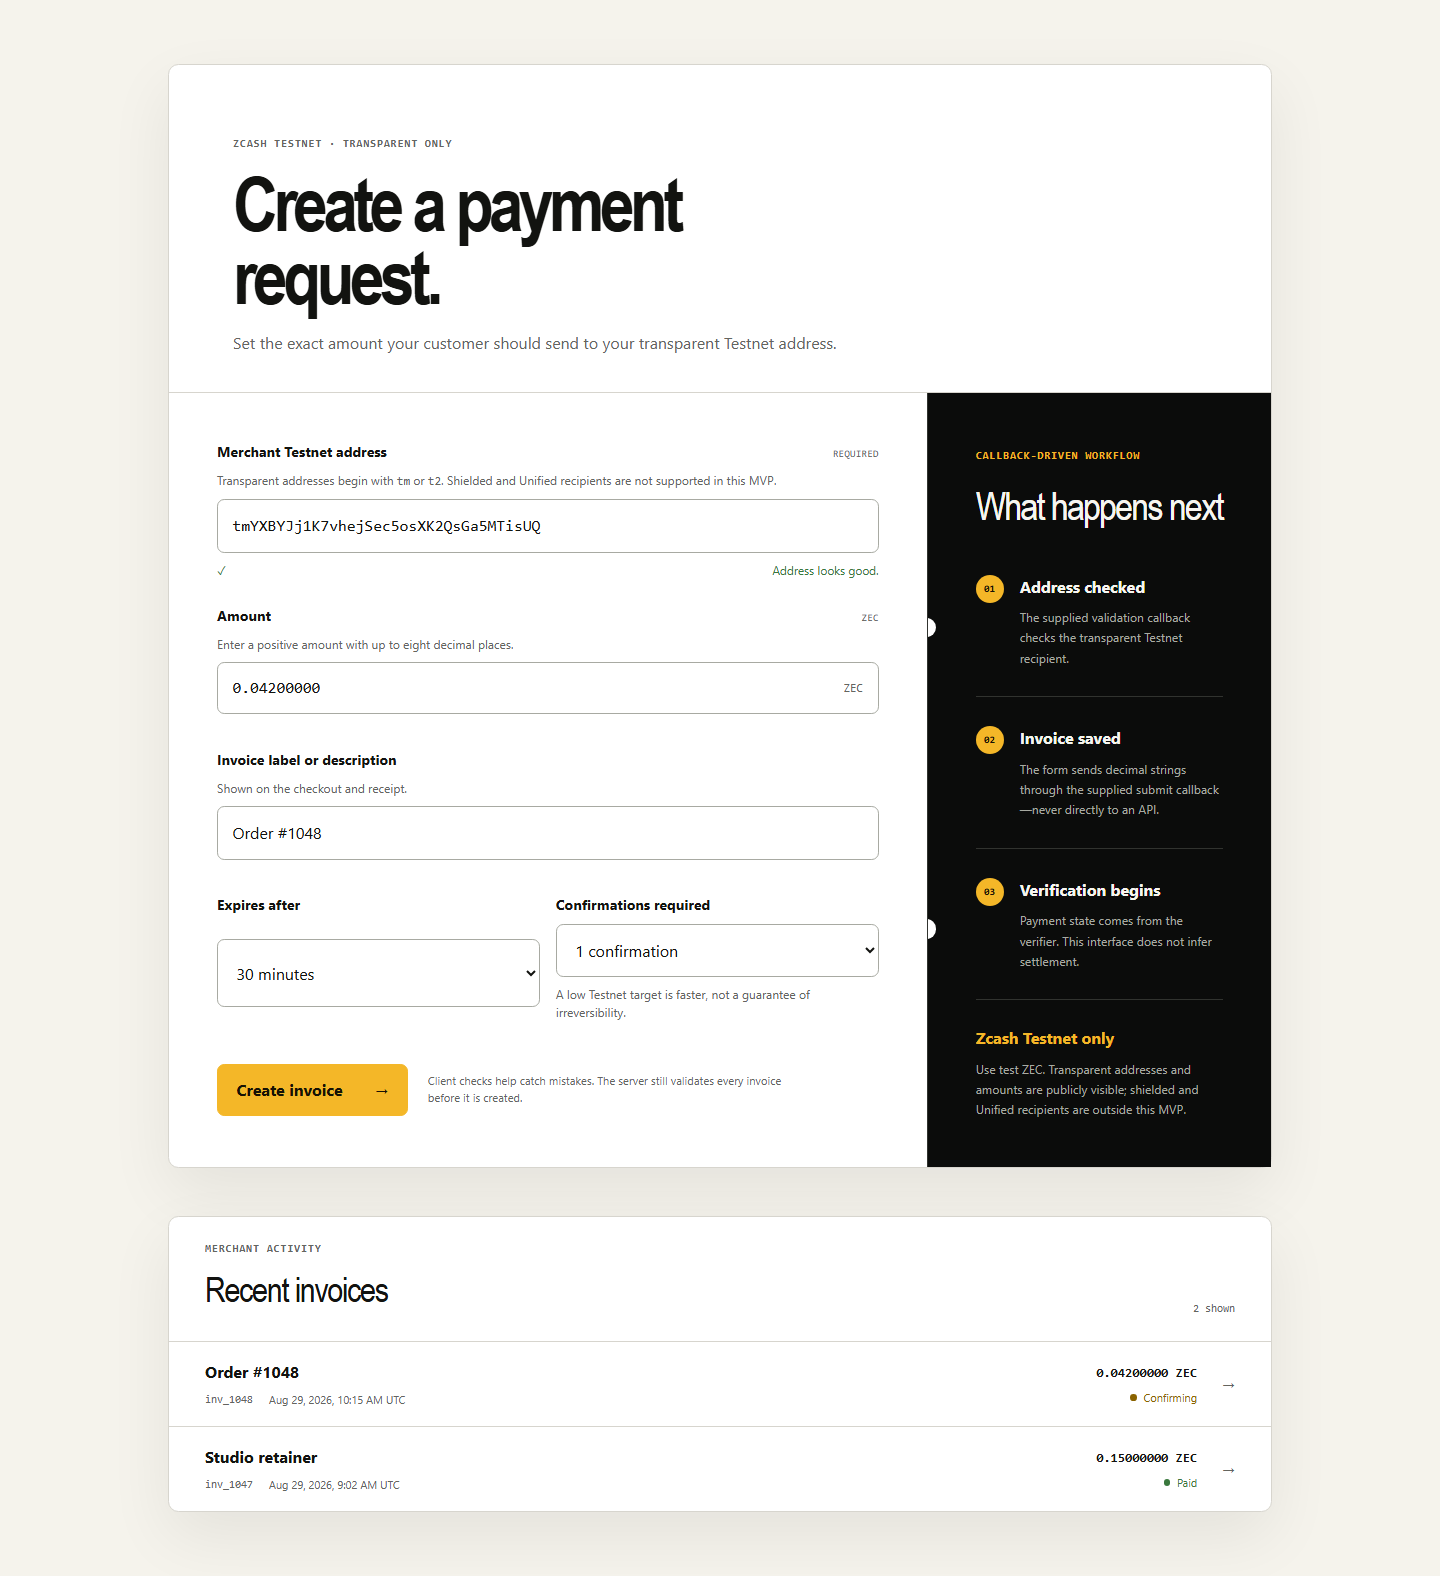
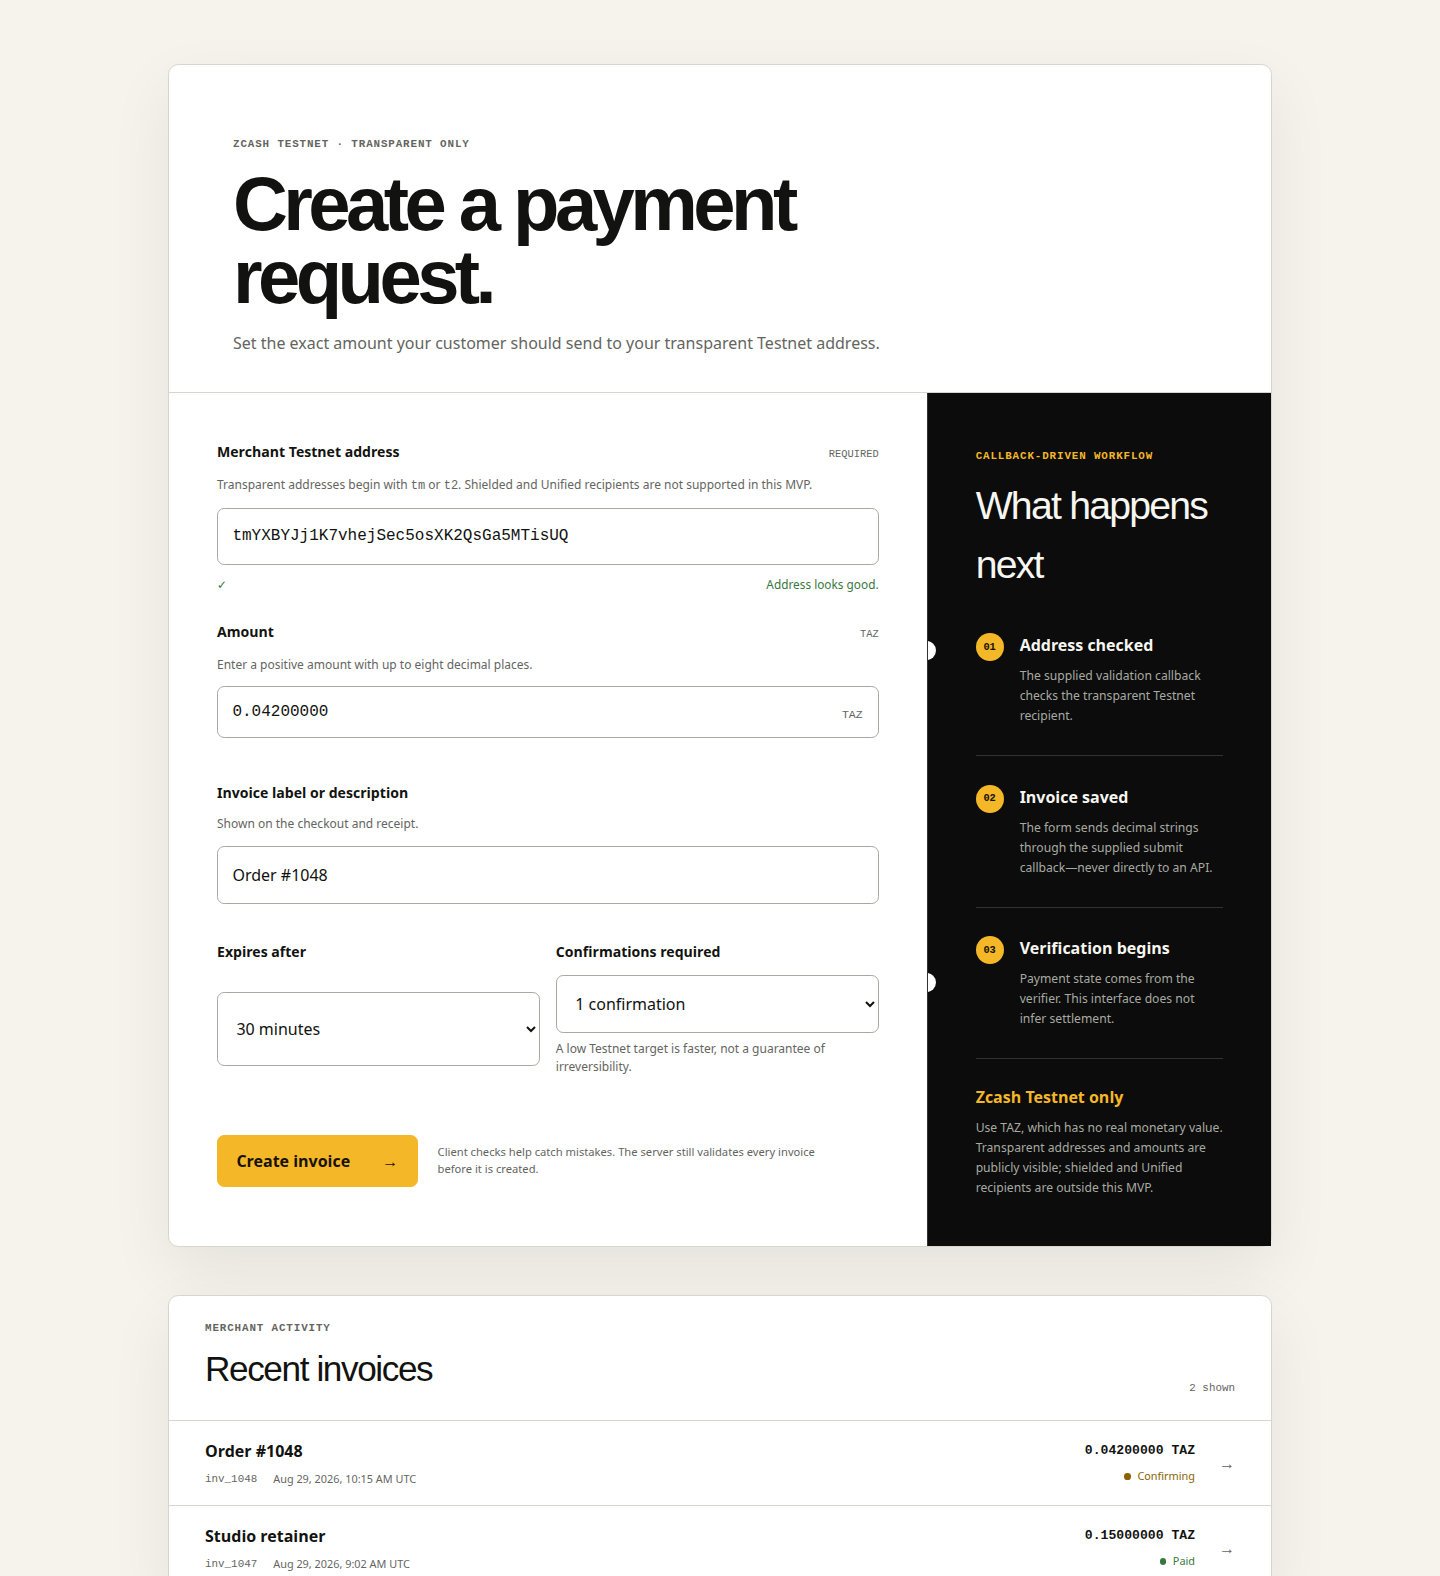
fix(merchant): correct testnet form states

diff --git a/src/components/merchant/merchant-invoice-form.tsx b/src/components/merchant/merchant-invoice-form.tsx
@@ -30,7 +30,7 @@ const CONFIRMATION_OPTIONS = [
 ] as const;
 
 const TESTNET_TRANSPARENT_ADDRESS = /^(?:tm|t2)[1-9A-HJ-NP-Za-km-z]{33}$/;
-const ZEC_AMOUNT = /^(?:0|[1-9]\d*)(?:\.\d{1,8})?$/;
+const TAZ_AMOUNT = /^(?:0|[1-9]\d*)(?:\.\d{1,8})?$/;
 
 const STATUS_LABELS: Record<RecentInvoiceSummary["status"], string> = {
   waiting: "Waiting",
@@ -56,9 +56,9 @@ function validate(values: MerchantInvoiceFormValues): MerchantFormErrors {
 
   if (!amount) {
     errors.amountZec = "Enter the amount the customer should send.";
-  } else if (!ZEC_AMOUNT.test(amount) || !/[1-9]/.test(amount)) {
+  } else if (!TAZ_AMOUNT.test(amount) || !/[1-9]/.test(amount)) {
     errors.amountZec =
-      "Enter a positive ZEC amount with no more than eight decimal places.";
+      "Enter a positive TAZ amount with no more than eight decimal places.";
   }
 
   if (!values.label.trim()) {
@@ -119,7 +119,7 @@ function RecentInvoices({
                 </span>
                 <span className={styles.invoiceAmount}>
                   <strong className={styles.mono}>
-                    {invoice.exactAmountZec} ZEC
+                    {invoice.exactAmountZec} TAZ
                   </strong>
                   <span
                     className={`${styles.status} ${styles[`status_${invoice.status}`]}`}
@@ -151,10 +151,30 @@ export function MerchantInvoiceForm({
   const idPrefix = useId();
   const [values, setValues] = useState(initialValues);
   const [clientErrors, setClientErrors] = useState<MerchantFormErrors>({});
+  const [ignoredAddressValidation, setIgnoredAddressValidation] = useState<
+    string | undefined
+  >();
+  const [dismissedFieldErrors, setDismissedFieldErrors] =
+    useState<MerchantFormErrors>({});
 
   const isSubmitting = submission.status === "submitting";
-  const getError = (field: MerchantFormField) =>
-    fieldErrors?.[field] ?? clientErrors[field];
+  const addressValidationKey = [
+    addressValidation.status,
+    "message" in addressValidation ? addressValidation.message : "",
+  ].join(":");
+  const currentAddressValidation =
+    ignoredAddressValidation === addressValidationKey
+      ? ({ status: "idle" } as const)
+      : addressValidation;
+  const getError = (field: MerchantFormField) => {
+    const suppliedError = fieldErrors?.[field];
+    const activeSuppliedError =
+      suppliedError && dismissedFieldErrors[field] !== suppliedError
+        ? suppliedError
+        : undefined;
+
+    return activeSuppliedError ?? clientErrors[field];
+  };
 
   function updateValue(
     event: ChangeEvent<HTMLInputElement | HTMLSelectElement>,
@@ -163,6 +183,16 @@ export function MerchantInvoiceForm({
     const value = event.target.value;
 
     setValues((current) => ({ ...current, [field]: value }));
+    if (field === "recipientAddress") {
+      setIgnoredAddressValidation(addressValidationKey);
+    }
+    const suppliedError = fieldErrors?.[field];
+    if (suppliedError) {
+      setDismissedFieldErrors((current) => ({
+        ...current,
+        [field]: suppliedError,
+      }));
+    }
     setClientErrors((current) => {
       if (!current[field]) return current;
       const next = { ...current };
@@ -182,8 +212,8 @@ export function MerchantInvoiceForm({
     };
     const nextErrors = validate(nextValues);
 
-    if (addressValidation.status === "invalid") {
-      nextErrors.recipientAddress = addressValidation.message;
+    if (currentAddressValidation.status === "invalid") {
+      nextErrors.recipientAddress = currentAddressValidation.message;
     }
 
     setClientErrors(nextErrors);
@@ -196,7 +226,7 @@ export function MerchantInvoiceForm({
   const addressStatusId = `${idPrefix}-address-status`;
   const addressDescription = [
     `${idPrefix}-address-hint`,
-    addressError || addressValidation.status !== "idle"
+    addressError || currentAddressValidation.status !== "idle"
       ? addressStatusId
       : undefined,
   ]
@@ -251,11 +281,11 @@ export function MerchantInvoiceForm({
               />
               <div
                 className={`${styles.fieldMessage} ${
-                  addressError || addressValidation.status === "invalid"
+                  addressError || currentAddressValidation.status === "invalid"
                     ? styles.messageError
-                    : addressValidation.status === "valid"
+                    : currentAddressValidation.status === "valid"
                       ? styles.messageSuccess
-                      : addressValidation.status === "unavailable"
+                      : currentAddressValidation.status === "unavailable"
                         ? styles.messageInfo
                         : ""
                 }`}
@@ -264,16 +294,16 @@ export function MerchantInvoiceForm({
               >
                 {addressError ? (
                   addressError
-                ) : addressValidation.status === "checking" ? (
-                  (addressValidation.message ??
+                ) : currentAddressValidation.status === "checking" ? (
+                  (currentAddressValidation.message ??
                   "Checking this Testnet address…")
-                ) : addressValidation.status === "valid" ? (
-                  (addressValidation.message ?? "Address looks good.")
-                ) : addressValidation.status === "invalid" ? (
-                  addressValidation.message
-                ) : addressValidation.status === "unavailable" ? (
+                ) : currentAddressValidation.status === "valid" ? (
+                  (currentAddressValidation.message ?? "Address looks good.")
+                ) : currentAddressValidation.status === "invalid" ? (
+                  currentAddressValidation.message
+                ) : currentAddressValidation.status === "unavailable" ? (
                   <>
-                    <span>{addressValidation.message}</span>
+                    <span>{currentAddressValidation.message}</span>
                     {onAddressBlur ? (
                       <button
                         className={styles.inlineButton}
@@ -293,7 +323,7 @@ export function MerchantInvoiceForm({
             <div className={styles.field}>
               <div className={styles.labelRow}>
                 <label htmlFor={`${idPrefix}-amount`}>Amount</label>
-                <span>ZEC</span>
+                <span>TAZ</span>
               </div>
               <p className={styles.hint} id={`${idPrefix}-amount-hint`}>
                 Enter a positive amount with up to eight decimal places.
@@ -312,7 +342,7 @@ export function MerchantInvoiceForm({
                   type="text"
                   value={values.amountZec}
                 />
-                <span aria-hidden>ZEC</span>
+                <span aria-hidden>TAZ</span>
               </div>
               <p
                 className={`${styles.fieldMessage} ${styles.messageError}`}
@@ -488,8 +518,9 @@ export function MerchantInvoiceForm({
             <div className={styles.testnetNotice}>
               <strong>Zcash Testnet only</strong>
               <p>
-                Use test ZEC. Transparent addresses and amounts are publicly
-                visible; shielded and Unified recipients are outside this MVP.
+                Use TAZ, which has no real monetary value. Transparent addresses
+                and amounts are publicly visible; shielded and Unified
+                recipients are outside this MVP.
               </p>
             </div>
           </aside>

diff --git a/src/components/merchant/merchant-invoice-form.test.tsx b/src/components/merchant/merchant-invoice-form.test.tsx
@@ -47,7 +47,7 @@ describe("MerchantInvoiceForm", () => {
     expect(onSubmit).toHaveBeenCalledWith(validValues);
   });
 
-  it("blocks invalid amounts without converting ZEC to floating point", () => {
+  it("blocks invalid TAZ amounts without converting them to floating point", () => {
     const onSubmit = vi.fn();
     renderForm({
       initialValues: { ...validValues, amountZec: "0.000000001" },
@@ -57,7 +57,7 @@ describe("MerchantInvoiceForm", () => {
     fireEvent.click(screen.getByRole("button", { name: /create invoice/i }));
 
     expect(
-      screen.getByText(/positive ZEC amount with no more than eight/i),
+      screen.getByText(/positive TAZ amount with no more than eight/i),
     ).toBeInTheDocument();
     expect(onSubmit).not.toHaveBeenCalled();
   });
@@ -99,6 +99,62 @@ describe("MerchantInvoiceForm", () => {
     expect(onAddressBlur).toHaveBeenLastCalledWith(
       validValues.recipientAddress,
     );
+  });
+
+  it("ignores a stale invalid address result after the recipient is edited", () => {
+    const onSubmit = vi.fn();
+    renderForm({
+      addressValidation: {
+        status: "invalid",
+        message: "This address did not pass the external check.",
+      },
+      onSubmit,
+    });
+
+    expect(
+      screen.getByText("This address did not pass the external check."),
+    ).toBeInTheDocument();
+
+    fireEvent.change(screen.getByLabelText(/merchant Testnet address/i), {
+      target: { value: "tmYXBYJj1K7vhejSec5osXK2QsGa5MTisUR" },
+    });
+
+    expect(
+      screen.queryByText("This address did not pass the external check."),
+    ).not.toBeInTheDocument();
+    fireEvent.click(screen.getByRole("button", { name: /create invoice/i }));
+    expect(onSubmit).toHaveBeenCalledOnce();
+  });
+
+  it("hides a stale valid address result after the recipient is edited", () => {
+    renderForm({ addressValidation: { status: "valid" } });
+
+    expect(screen.getByText("Address looks good.")).toBeInTheDocument();
+    fireEvent.change(screen.getByLabelText(/merchant Testnet address/i), {
+      target: { value: "tmYXBYJj1K7vhejSec5osXK2QsGa5MTisUR" },
+    });
+
+    expect(screen.queryByText("Address looks good.")).not.toBeInTheDocument();
+  });
+
+  it("dismisses only the supplied field error whose field is edited", () => {
+    renderForm({
+      fieldErrors: {
+        amountZec: "The server rejected this amount.",
+        label: "The server rejected this label.",
+      },
+    });
+
+    fireEvent.change(screen.getByLabelText(/invoice label or description/i), {
+      target: { value: "Updated order label" },
+    });
+
+    expect(
+      screen.queryByText("The server rejected this label."),
+    ).not.toBeInTheDocument();
+    expect(
+      screen.getByText("The server rejected this amount."),
+    ).toBeInTheDocument();
   });
 
   it("renders loading, server-error, and success states", () => {
@@ -160,11 +216,21 @@ describe("MerchantInvoiceForm", () => {
     expect(
       screen.getByRole("heading", { name: "Recent invoices" }),
     ).toBeInTheDocument();
-    expect(screen.getByText("0.04200000 ZEC")).toBeInTheDocument();
+    expect(screen.getByText("0.04200000 TAZ")).toBeInTheDocument();
     expect(screen.getByText("Confirming")).toBeInTheDocument();
     expect(screen.getByRole("link", { name: /Order #1048/i })).toHaveAttribute(
       "href",
       "/pay/inv_1048",
     );
+  });
+
+  it("uses TAZ for every visible Testnet amount and help message", () => {
+    renderForm();
+
+    expect(screen.getAllByText("TAZ")).toHaveLength(2);
+    expect(
+      screen.getByText(/Use TAZ, which has no real monetary value/i),
+    ).toBeInTheDocument();
+    expect(screen.queryByText(/\bZEC\b/i)).not.toBeInTheDocument();
   });
 });
